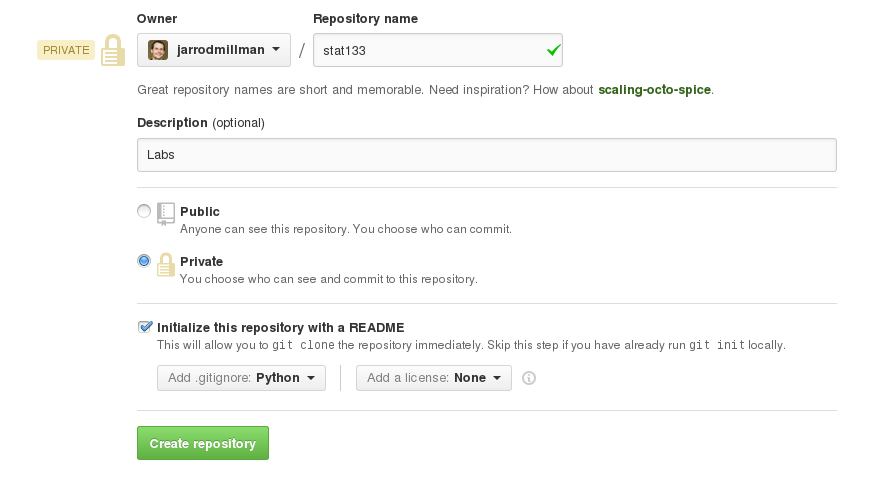
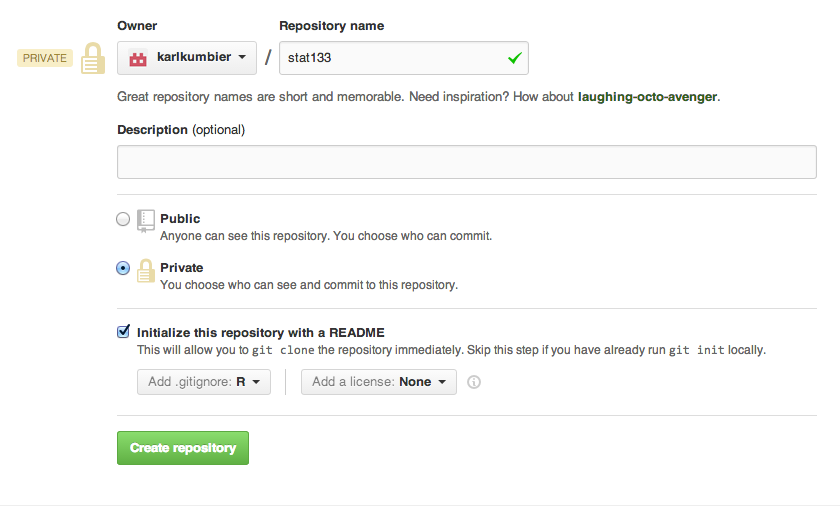
Updated lab2 for R

diff --git a/website/content/2014-06-12-lab2.md b/website/content/2014-06-12-lab2.md
@@ -2,13 +2,12 @@ title: Lab 2
 author: Jarrod Millman
 date: 2014-06-12
 slug: lab02
-status: hidden
 
 In this lab, you will:
 
 1. Setup ``git``
 2. Create a private homework repository on Github
-3. Create an ``info.py`` file
+3. Create an ``info.R`` file
 
 You will need:
 
@@ -54,8 +53,8 @@ The first thing you need to do is configure ``git``.  Here is what
 I did on my machine, you should use your own name and email address!
 
 ```bash
-git config --global user.name "Jarrod Millman"
-git config --global user.email "millman@berkeley.edu"
+git config --global user.name "Karl Kumbier"
+git config --global user.email "kkumbier@berkeley.edu"
 ```
 
 ## Create a private homework repository on Github
@@ -71,9 +70,9 @@ This will take you to a new page where you will:
 1. Name your repository "stat133"
 2. Make sure it is private
 3. Select "Initialize this repository with a README"
-4. Choose "Python" in the pull-down menu to add a .gitignore file
+4. Choose "R" in the pull-down menu to add a .gitignore file
 
-Your screen should look like this (except ``jarrodmillman`` will
+Your screen should look like this (except ``karlkumbier`` will
 be replaced by your Github name):
 
 ![Create New Github Repo]({filename}/images/github_new_repo.png)
@@ -89,7 +88,7 @@ your repositories main page, you should see a button labelled
 "Settings".  Click on the "Settings" button will take you to
 a page where you can edit various settings for your repository.
 Choose the "Collaborators" button on the "Settings" page and
-add me, ``jarrodmillman``, as well as the instructor, ``BenoitDherin``.
+add me, ``karlkumbier``, as well as the instructor, ``jarrodmillman``.
 
 ![Github Add Collaborator]({filename}/images/github_add_collab.png)
 
@@ -103,10 +102,10 @@ Please make sure to use your own Github username instead of mine.
 $ cd            # go to your home directory
 $ mkdir src     # make a source subdirectory
 $ cd src
-$ git clone https://github.com/jarrodmillman/stat133.git
+$ git clone https://github.com/karlkumbier/stat133.git
 Cloning into 'stat133'...
-Username for 'https://github.com': jarrodmillman
-Password for 'https://jarrodmillman@github.com': 
+Username for 'https://github.com': karlkumbier
+Password for 'https://karlkumbier@github.com': 
 remote: Counting objects: 4, done.
 remote: Compressing objects: 100% (3/3), done.
 remote: Total 4 (delta 0), reused 0 (delta 0)
@@ -123,7 +122,7 @@ $ ls -a
 .  ..  .git  .gitignore  README.md
 ```
 
-## Create an ``info.py`` file
+## Create an ``info.R`` file
 
 Now that you have a local copy of your repo, you will need to add
 some new content.
@@ -142,15 +141,18 @@ If you aren't in the correct directory, you need to change your working director
 cd ~/src/stat133
 ```
 
-Open your text editor and create a new file, called ``info.py``.  Now
+Open your text editor and create a new file, called ``info.R``.  Now
 add the following content (replacing the values I've set with your own):
 
-```python
-name = "Jarrod Millman"
+```Rscript
+name = "Karl Kumbier"
 SID = "0123456789"
 email = "name@berkeley.edu"
-github_name = "jarrodmillman"
+github_name = "karlkumbier"
+status = enrolled
 ```
+
+Note: ``status`` in ('enrolled', 'audit')
 
 Next you will query the status of your ``git`` repo:
 
@@ -162,7 +164,7 @@ Your branch is up-to-date with 'origin/master'.
 Untracked files:
   (use "git add <file>..." to include in what will be committed)
 
-        info.py
+        info.R
 
 nothing added to commit but untracked files present (use "git add" to track)
 ```
@@ -171,7 +173,7 @@ As you should see, ``git`` tells you that there is a new file that is not
 being tracked.  Following the advice, try adding your new file to the repo:
 
 ```bash
-git add info.py 
+git add info.R 
 ```
 
 Now check on the status of your repo again:
@@ -184,7 +186,7 @@ Your branch is up-to-date with 'origin/master'.
 Changes to be committed:
   (use "git reset HEAD <file>..." to unstage)
 
-        new file:   info.py
+        new file:   info.R
 ```
 
 Everything looks good, so go ahead and commit your change:
@@ -193,7 +195,7 @@ Everything looks good, so go ahead and commit your change:
 $ git commit -m "Add personal info"
 [master bbc329f] Add personal info
  1 file changed, 4 insertions(+)
- create mode 100644 info.py
+ create mode 100644 info.R
 ```
 
 Next take a look at a log of what's been done:
@@ -201,13 +203,13 @@ Next take a look at a log of what's been done:
 ```bash
 $ git log 
 commit bbc329fe5f0672582a3ad3c70f5b86f4acc15f63
-Author: Jarrod Millman <jarrod.millman@gmail.com>
+Author: Karl Kumbier <kkumbier@berkeley.edu>
 Date:   Wed Jan 29 14:19:38 2014 -0800
 
     Add personal info
 
 commit dead6f41c65e50f444760653205e21083caabfcc
-Author: Jarrod Millman <jarrod.millman@gmail.com>
+Author: Karl Kumbier <kkumbier@berkeley.edu>
 Date:   Tue Jan 28 22:29:33 2014 -0800
 
     Initial commit
@@ -220,14 +222,14 @@ changes back up to your remote Github repo:
 
 ```bash
 $ git push 
-Username for 'https://github.com': jarrodmillman
-Password for 'https://jarrodmillman@github.com': 
+Username for 'https://github.com': karlkumbier
+Password for 'https://karlkumbier@github.com': 
 Counting objects: 4, done.
 Delta compression using up to 4 threads.
 Compressing objects: 100% (3/3), done.
 Writing objects: 100% (3/3), 359 bytes | 0 bytes/s, done.
 Total 3 (delta 1), reused 0 (delta 0)
-To https://github.com/jarrodmillman/stat133
+To https://github.com/karlkumbier/stat133
    dead6f4..bbc329f  master -> master
 ```
 
